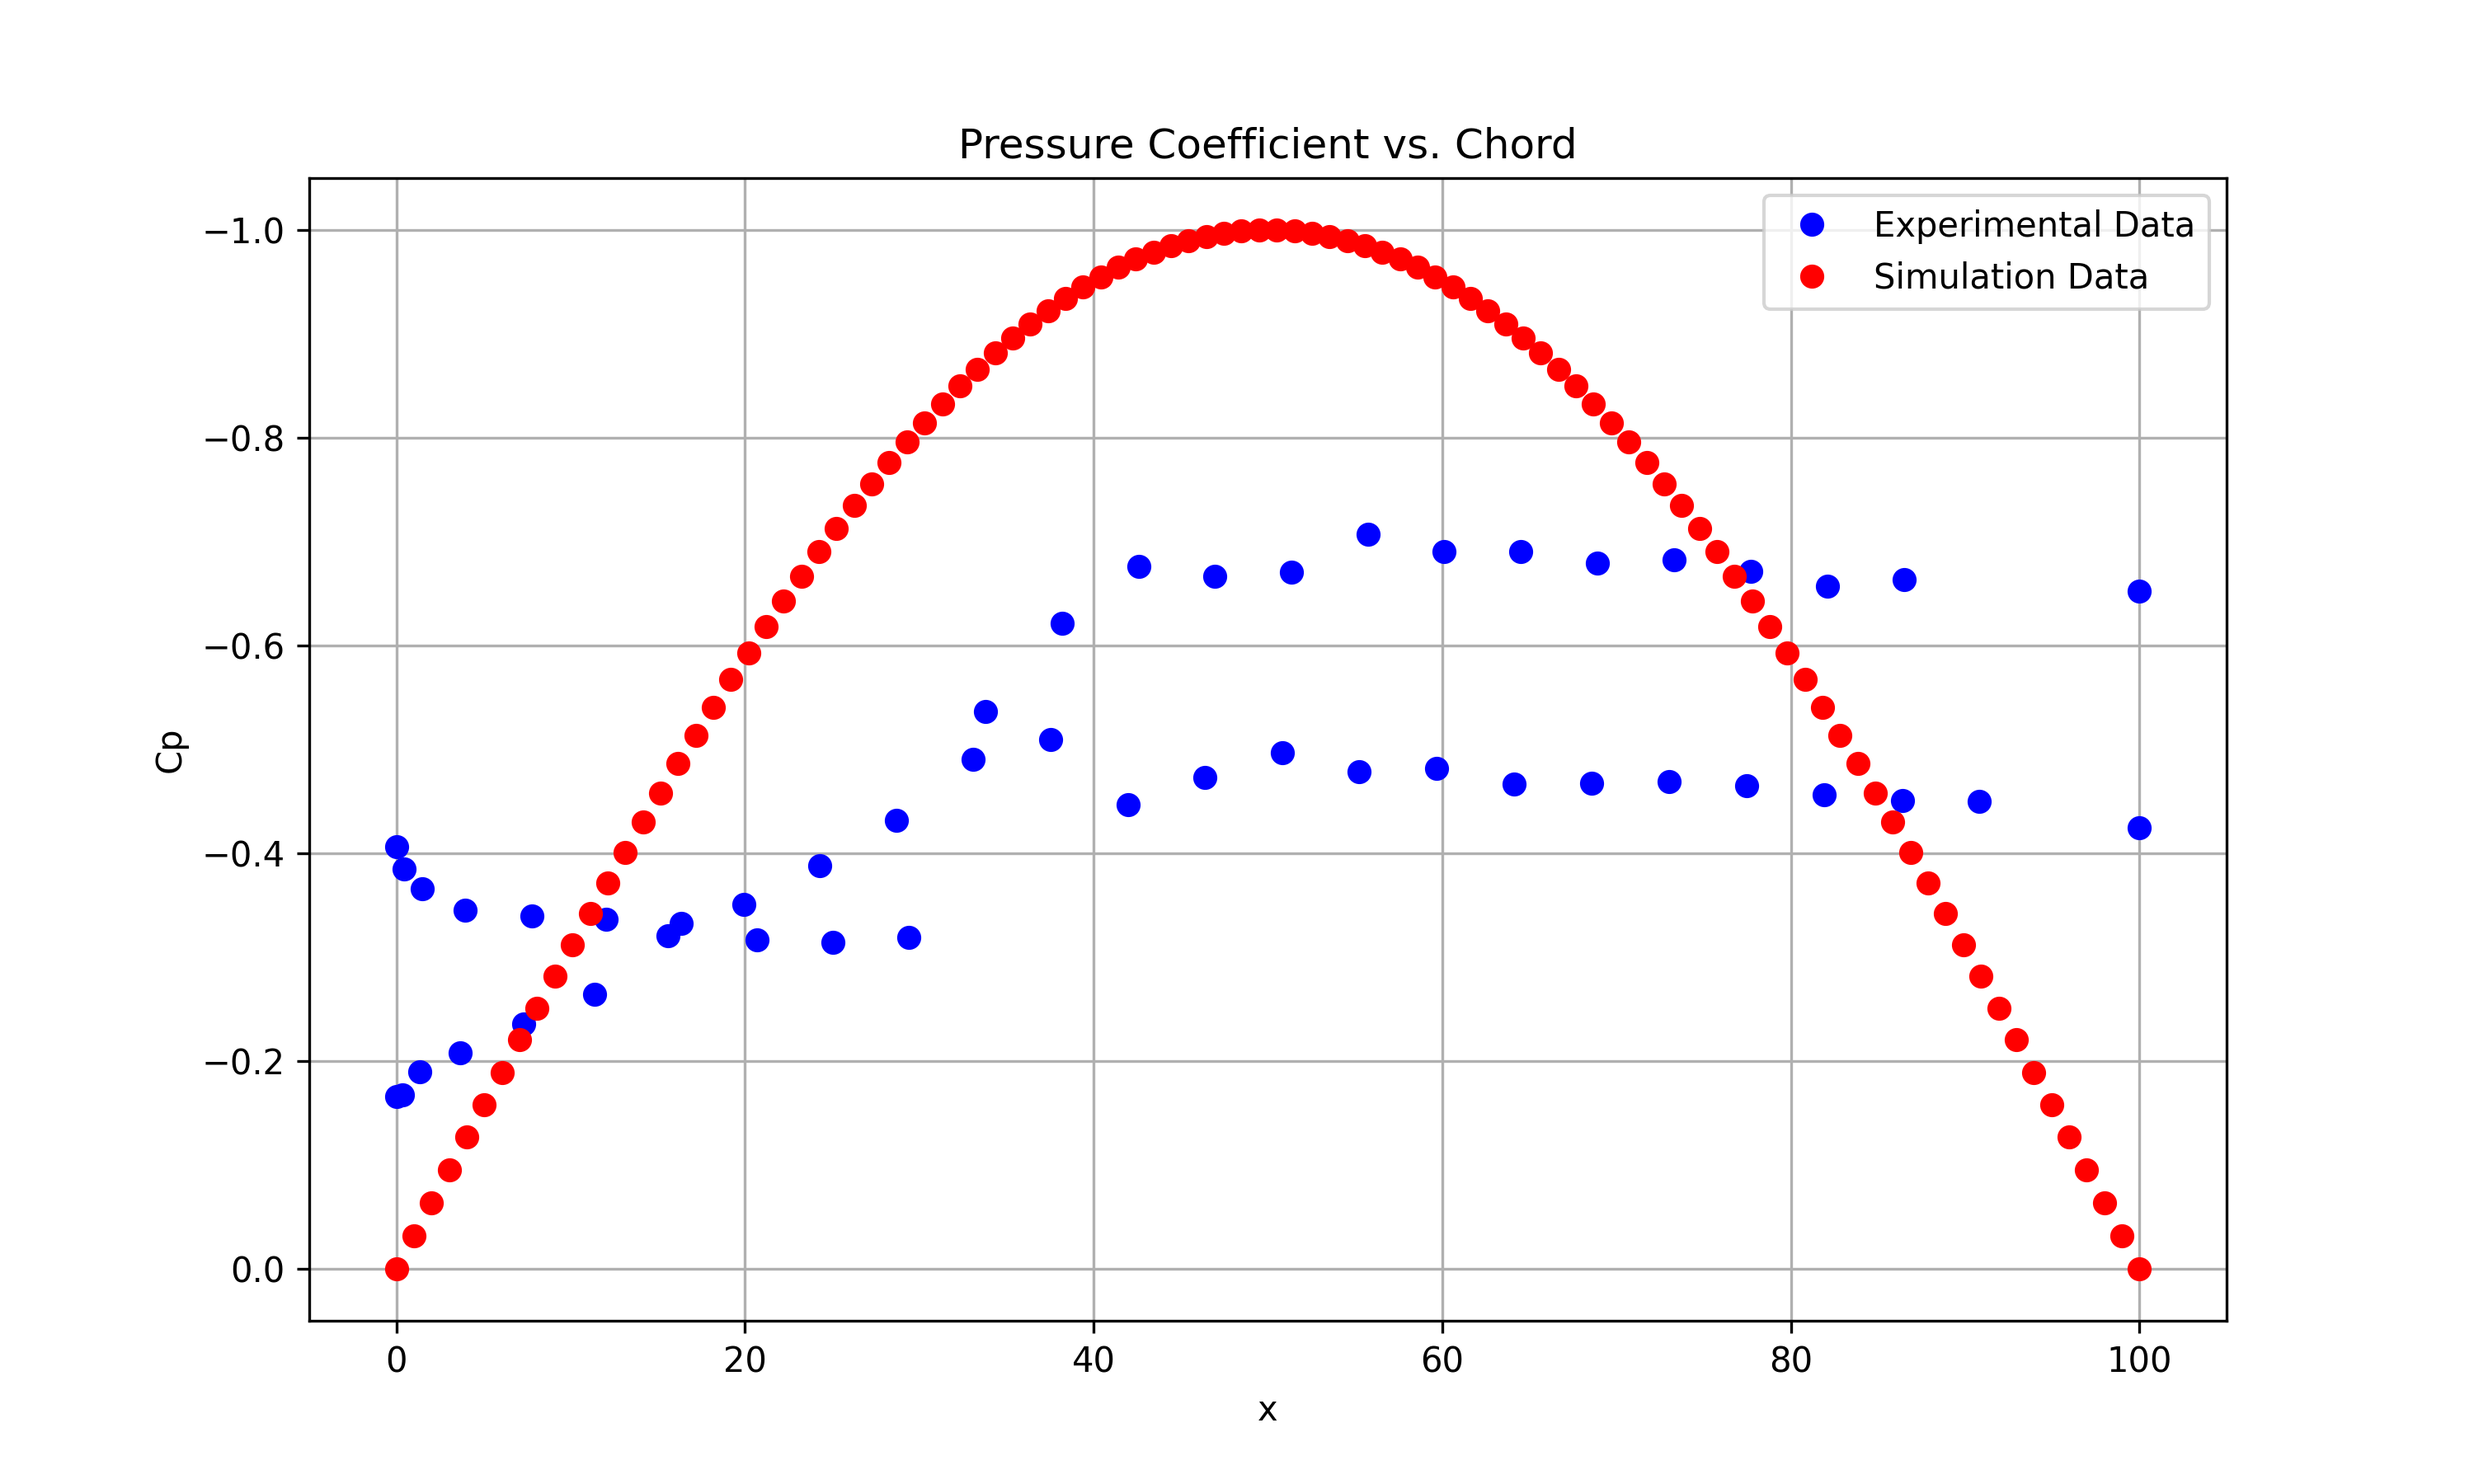
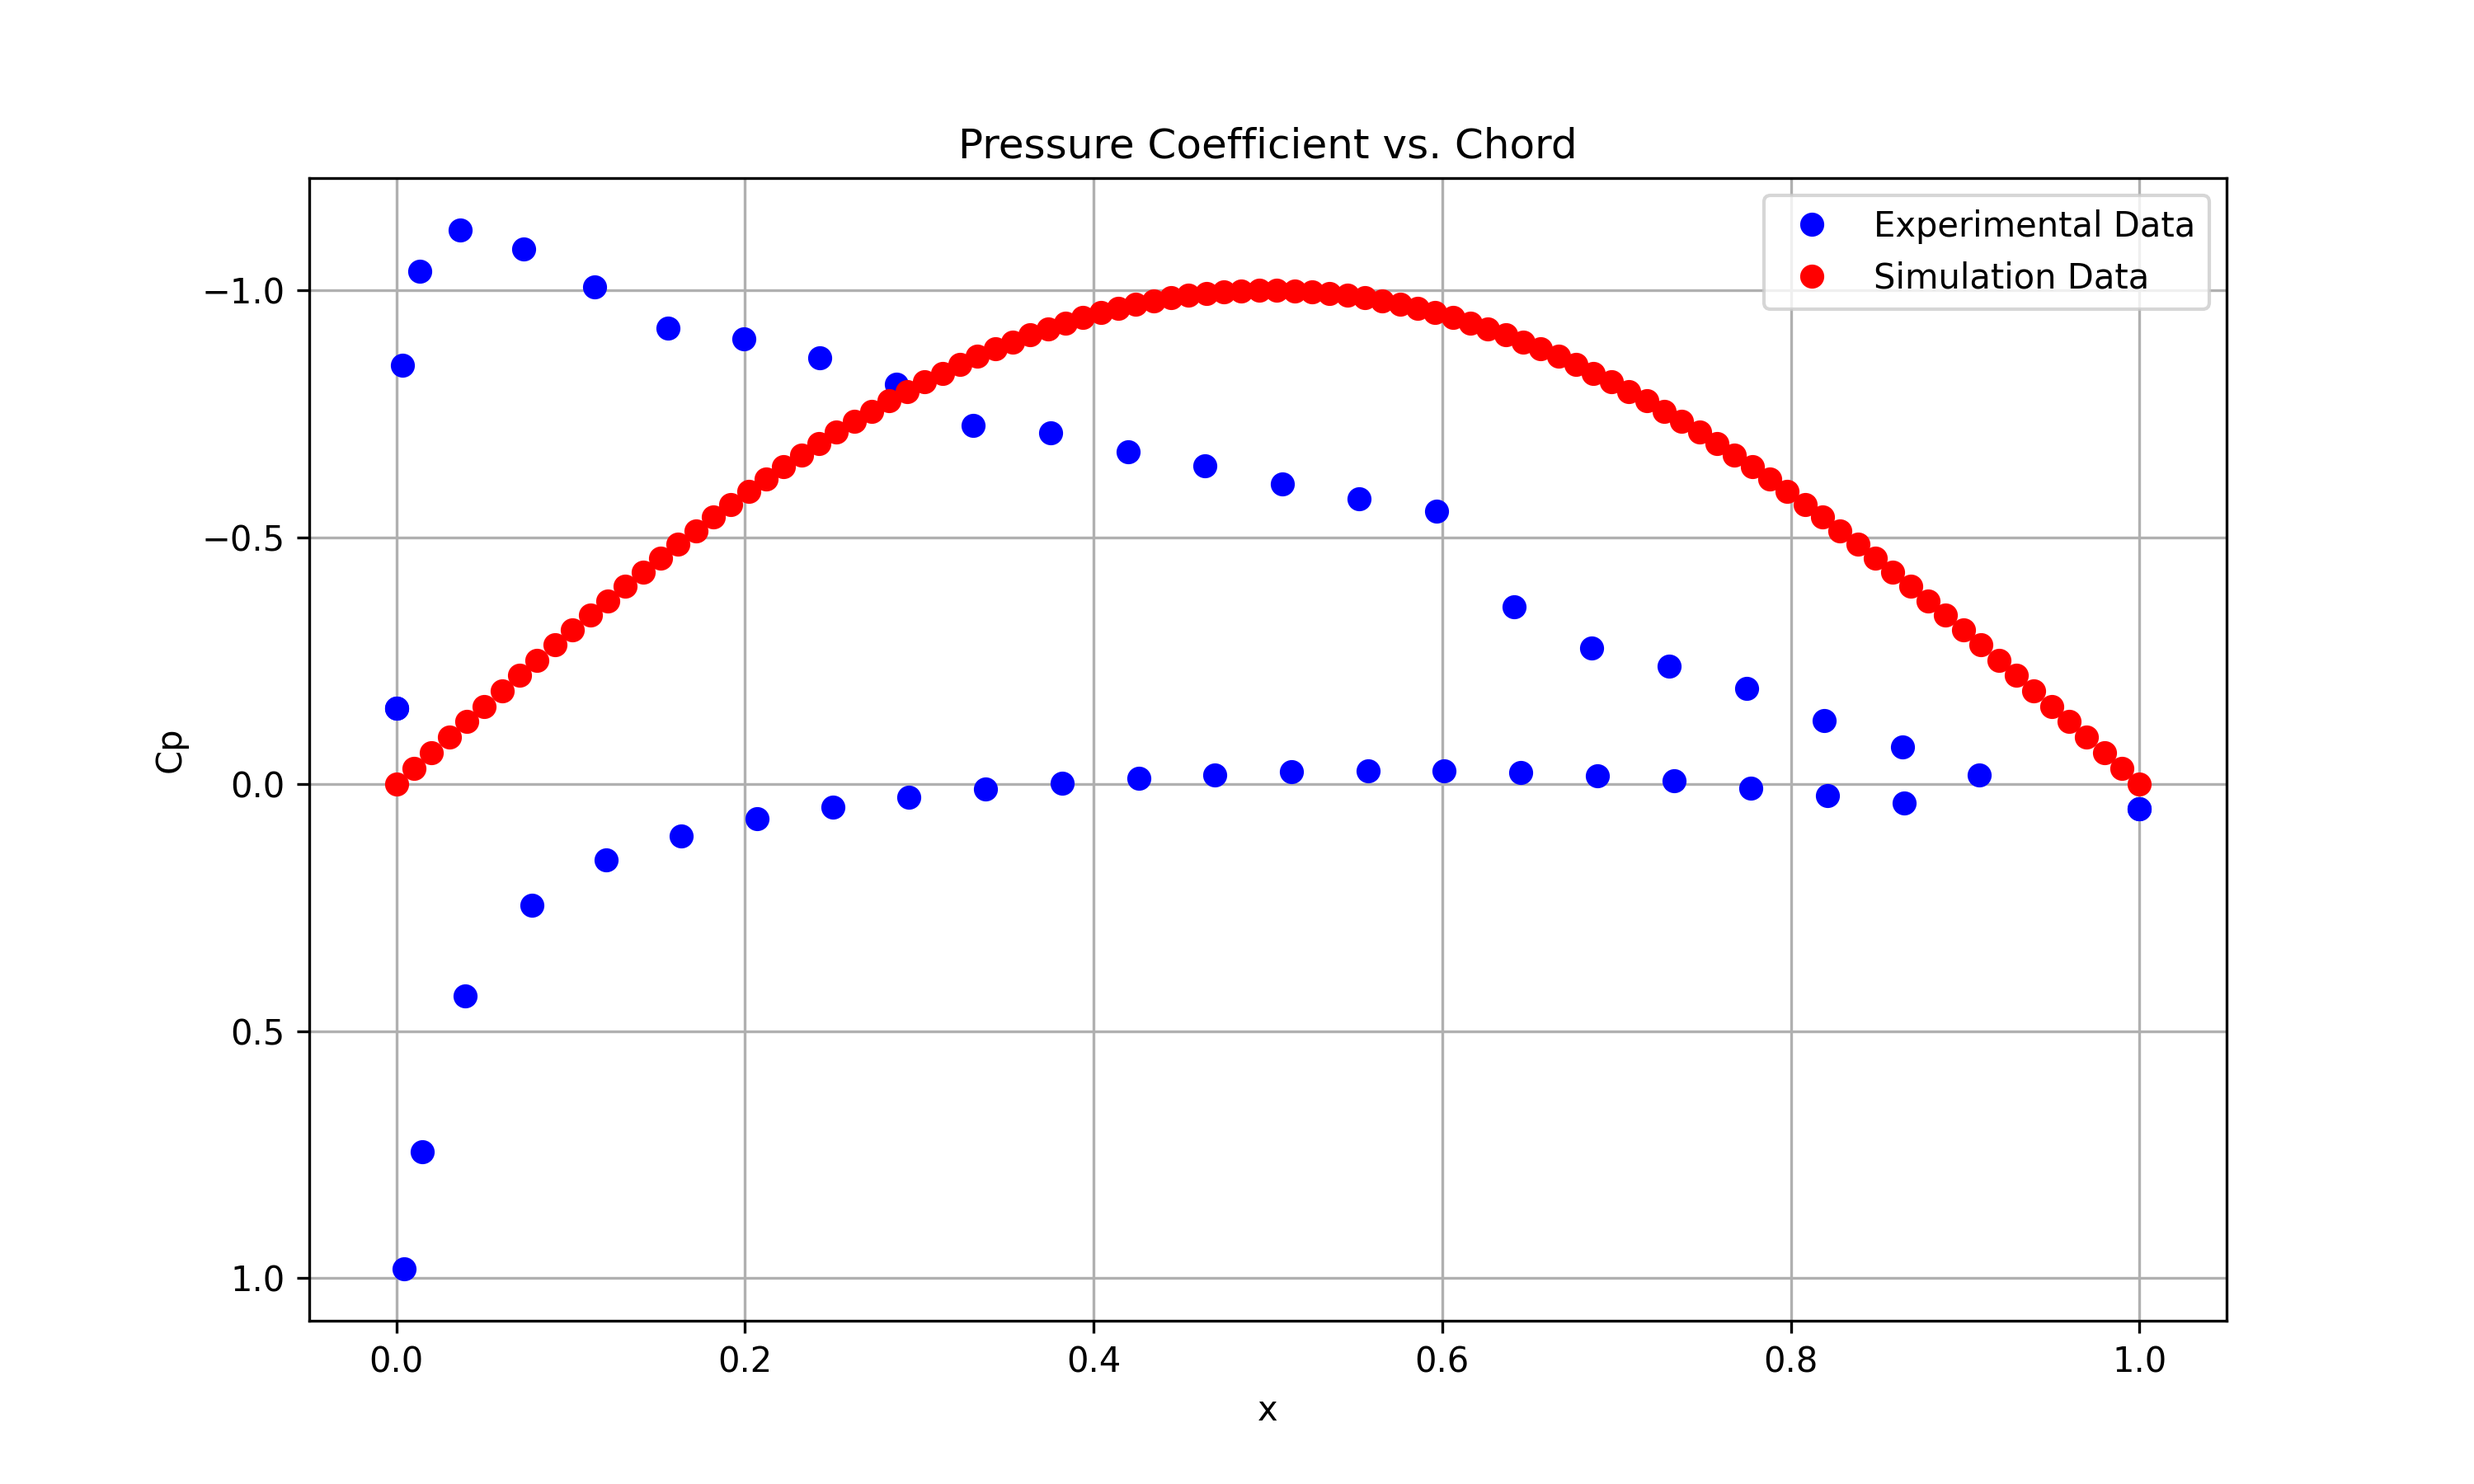
Fixed the Cp calucaltion logic (pressure tap inedex wher flipped), and generated txt files for 0,5 and 10 degrees aoa

diff --git a/plot_pressure_coefficient.py b/plot_pressure_coefficient.py
@@ -3,11 +3,11 @@ import matplotlib.pyplot as plt
 import numpy as np
 
 # Load the experimental data
-experimental_data_path = 'data files/cp_data/experimental/cp_data at 10.2° aoa.csv'
-experimental_data = pd.read_csv(experimental_data_path)
+experimental_data_path = 'data files/cp_data/experimental/cp_data at 5.0° aoa.txt'
+experimental_data = pd.read_csv(experimental_data_path, sep=' ', names=['x/c', 'Cp'])
 
-x_experimental = experimental_data['# x']
-cp_experimental = experimental_data[' Cp']
+x_experimental = experimental_data['x/c']
+cp_experimental = experimental_data['Cp']
 
 """# Load the simulation data
 simulation_data_path = 'data files/cp_data/simulation/cp_data at 0.0° aoa.csv'
@@ -17,8 +17,8 @@ x_simulation = simulation_data['# x']
 cp_simulation = simulation_data[' Cp']"""
 
 # Test cas
-x_simulation = np.linspace(0, 100, 100)
-cp_simulation = - (np.sin(np.pi * x_simulation/100))
+x_simulation = np.linspace(0, 1, 100)
+cp_simulation = - (np.sin(np.pi * x_simulation))
 
 # Create the plot
 plt.figure(figsize=(10, 6))

diff --git a/main.py b/main.py
@@ -178,6 +178,6 @@ print("pitot-static ports:", pitot_static_ports)"""
 q_inf = rc.calculate_reference_dynamic_pressure(sum(delta_pb_value) / n_measurements)
 p_inf = rc.calculate_reference_static_pressure(sum(total_pressure_pivot) / n_measurements, q_inf)
 
-print(pc.pressure_coefficient(q_inf, p_inf, pressure_taps, 5, airfoil_pressure_tap_coordinates, alpha_array))  #if you change the number you cahnge which experemient you are calucalting the cp for
+print(pc.pressure_coefficient(sum(p_bar_value)/n_measurements, q_inf, p_inf, pressure_taps, 10, airfoil_pressure_tap_coordinates, alpha_array))  #if you change the number you cahnge which experemient you are calucalting the cp for
 
 plot_forces()

diff --git a/pressure_coefficient.py b/pressure_coefficient.py
@@ -1,7 +1,7 @@
-def pressure_coefficient(q_inf, p_inf, pressure_taps, nth_measurement, coordinates, aoa, Plot=True):
+def pressure_coefficient(P_atm, q_inf, p_inf, pressure_taps, nth_measurement, coordinates, aoa, Plot=True):
     out = []
     for i in range(len(coordinates)):
-        out.append((coordinates[i][1], coordinates[i][2], (pressure_taps[i][nth_measurement]) / q_inf))
+        out.append((coordinates[i][1], coordinates[i][2], (pressure_taps[nth_measurement][i] + P_atm - p_inf) / q_inf))
     
     # Writing to txt file
     with open("data files/cp_data/experimental/cp_data at {}° aoa.txt".format(aoa[nth_measurement]), "w") as f:
